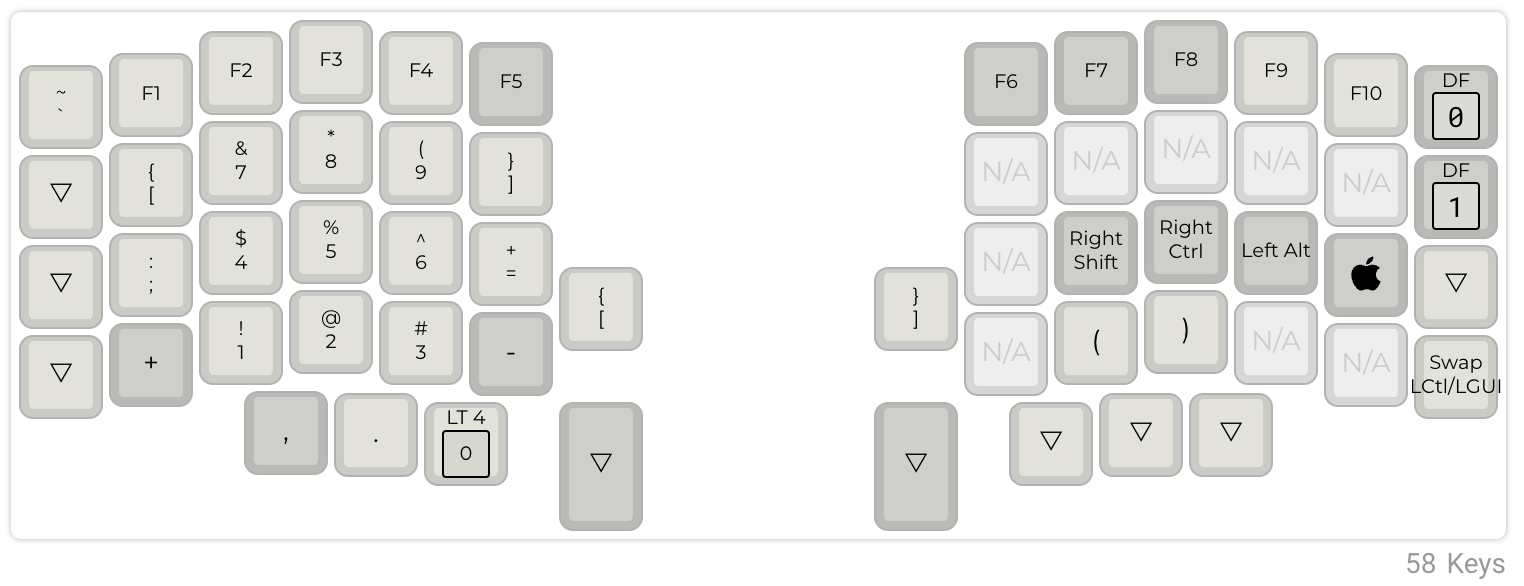
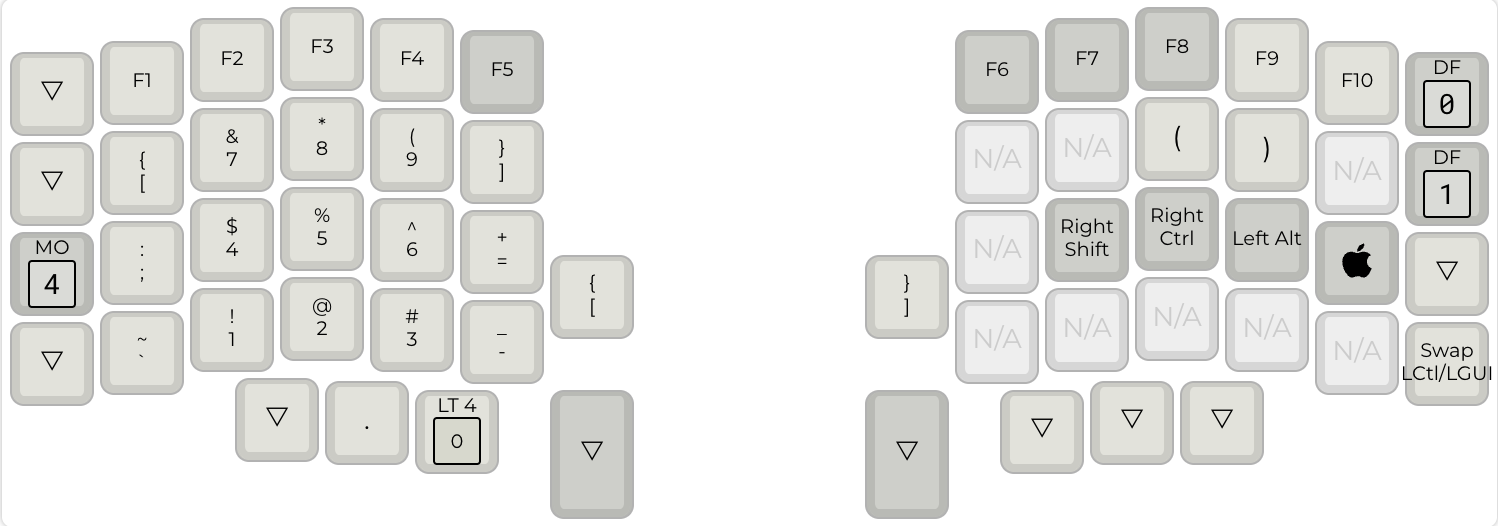
tweak number layer

diff --git a/keymap.c b/keymap.c
@@ -123,7 +123,7 @@ const uint16_t PROGMEM keymaps[][MATRIX_ROWS][MATRIX_COLS] = {
  * |------+------+------+------+------+------|                    |------+------+------+------+------+------|
  * |DZ_LAW|   ;  |  4   |  5   |  6   |  =+  |-------.    ,-------|      | RSFT | RCTL | LALT | RGUI |      |
  * |------+------+------+------+------+------|   [   |    |    ]  |------+------+------+------+------+------|
- * |      |   +  |  1   |  2   |  3   |  -   |-------|    |-------|      |      |   {  |  }   |      |DZ_WIN|
+ * |      |  `~  |  1   |  2   |  3   |  -   |-------|    |-------|      |      |      |      |      |DZ_WIN|
  * `-----------------------------------------/       /     \      \-----------------------------------------'
  *                   |  ,   |   .  |LOWER | /Space  /       \Enter \  |      |      |      |
  *                   |      |      |  0   |/       /         \      \ |      |      |      |
@@ -134,8 +134,8 @@ const uint16_t PROGMEM keymaps[][MATRIX_ROWS][MATRIX_COLS] = {
   _______, KC_F1,   KC_F2,  KC_F3,   KC_F4, KC_F5,                       KC_F6,   KC_F7,   KC_F8,   KC_F9,   KC_F10,  DZ_QWTY,
   _______, KC_LBRC, KC_7,   KC_8,    KC_9,  KC_RBRC,                     XXXXXXX, XXXXXXX, KC_LPRN, KC_RPRN, XXXXXXX, DZ_CLMK,
    DZ_LAW, KC_SCLN, KC_4,   KC_5,    KC_6,  KC_EQL,                      XXXXXXX, KC_RSFT, KC_RCTL, KC_LALT, KC_RGUI, XXXXXXX,
-  _______, KC_PPLS, KC_1,   KC_2,    KC_3,  KC_MINS, KC_LBRC, KC_RBRC,   XXXXXXX, XXXXXXX, KC_LCBR, KC_RCBR, XXXXXXX, DZ_WIN,
-                            KC_COMM, KC_LPRN, KC_0,  KC_RPRN, _______,  _______, _______, _______
+  _______, KC_GRV,  KC_1,   KC_2,    KC_3,  KC_MINS, KC_LBRC, KC_RBRC,   XXXXXXX, XXXXXXX, XXXXXXX, XXXXXXX, XXXXXXX, DZ_WIN,
+                            _______, KC_LPRN, KC_0,  KC_RPRN, _______,  _______, _______, _______
 ),
 
 /* LEGAL - only useful to NM appellate lawyers who use split ortho keebs. so, just me basically
